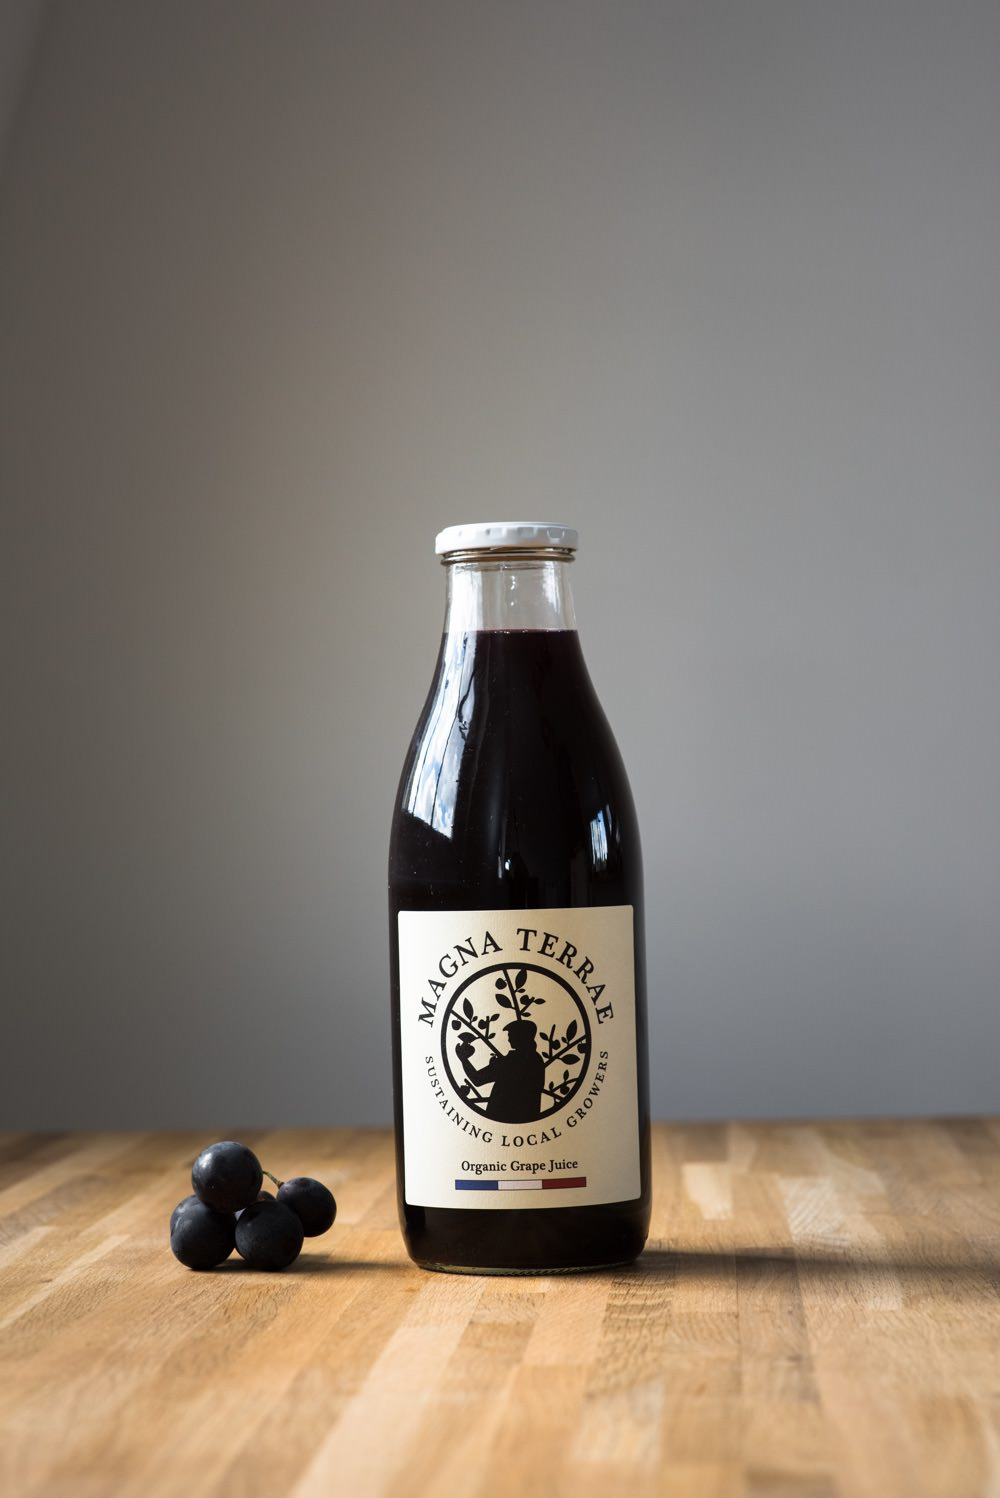
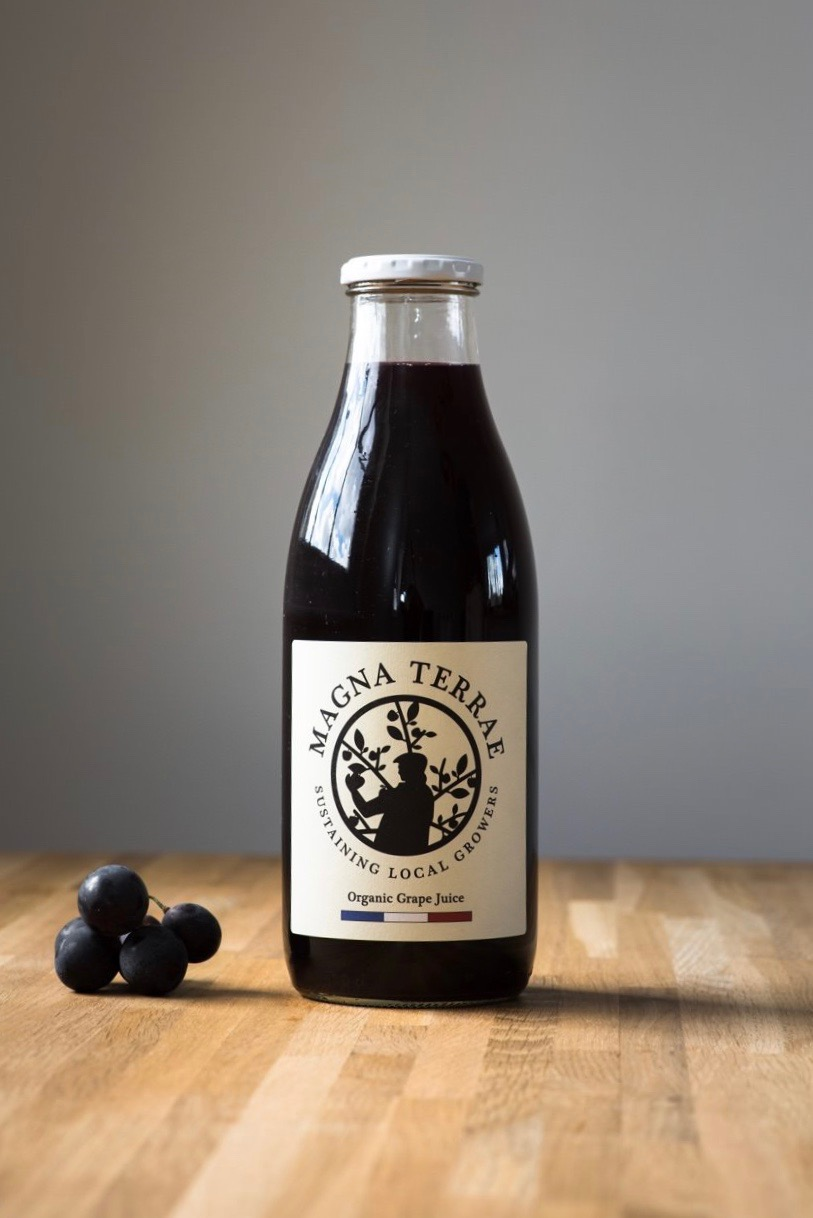
Add margin to body, reduce general font size, crop  first pic

diff --git a/source/assets/stylesheets/_colors.scss b/source/assets/stylesheets/_colors.scss
@@ -16,7 +16,7 @@ $body-background: $light-gray;
 $body-font-family: 'Montserrat', sans-serif;
 $header-font-family: $body-font-family;
 
-$font-weight-normal: 400;
+$font-weight-normal: 300;
 $font-weight-bold: 700;
 
-$global-font-size: 120%;
+$global-font-size: 100%;
